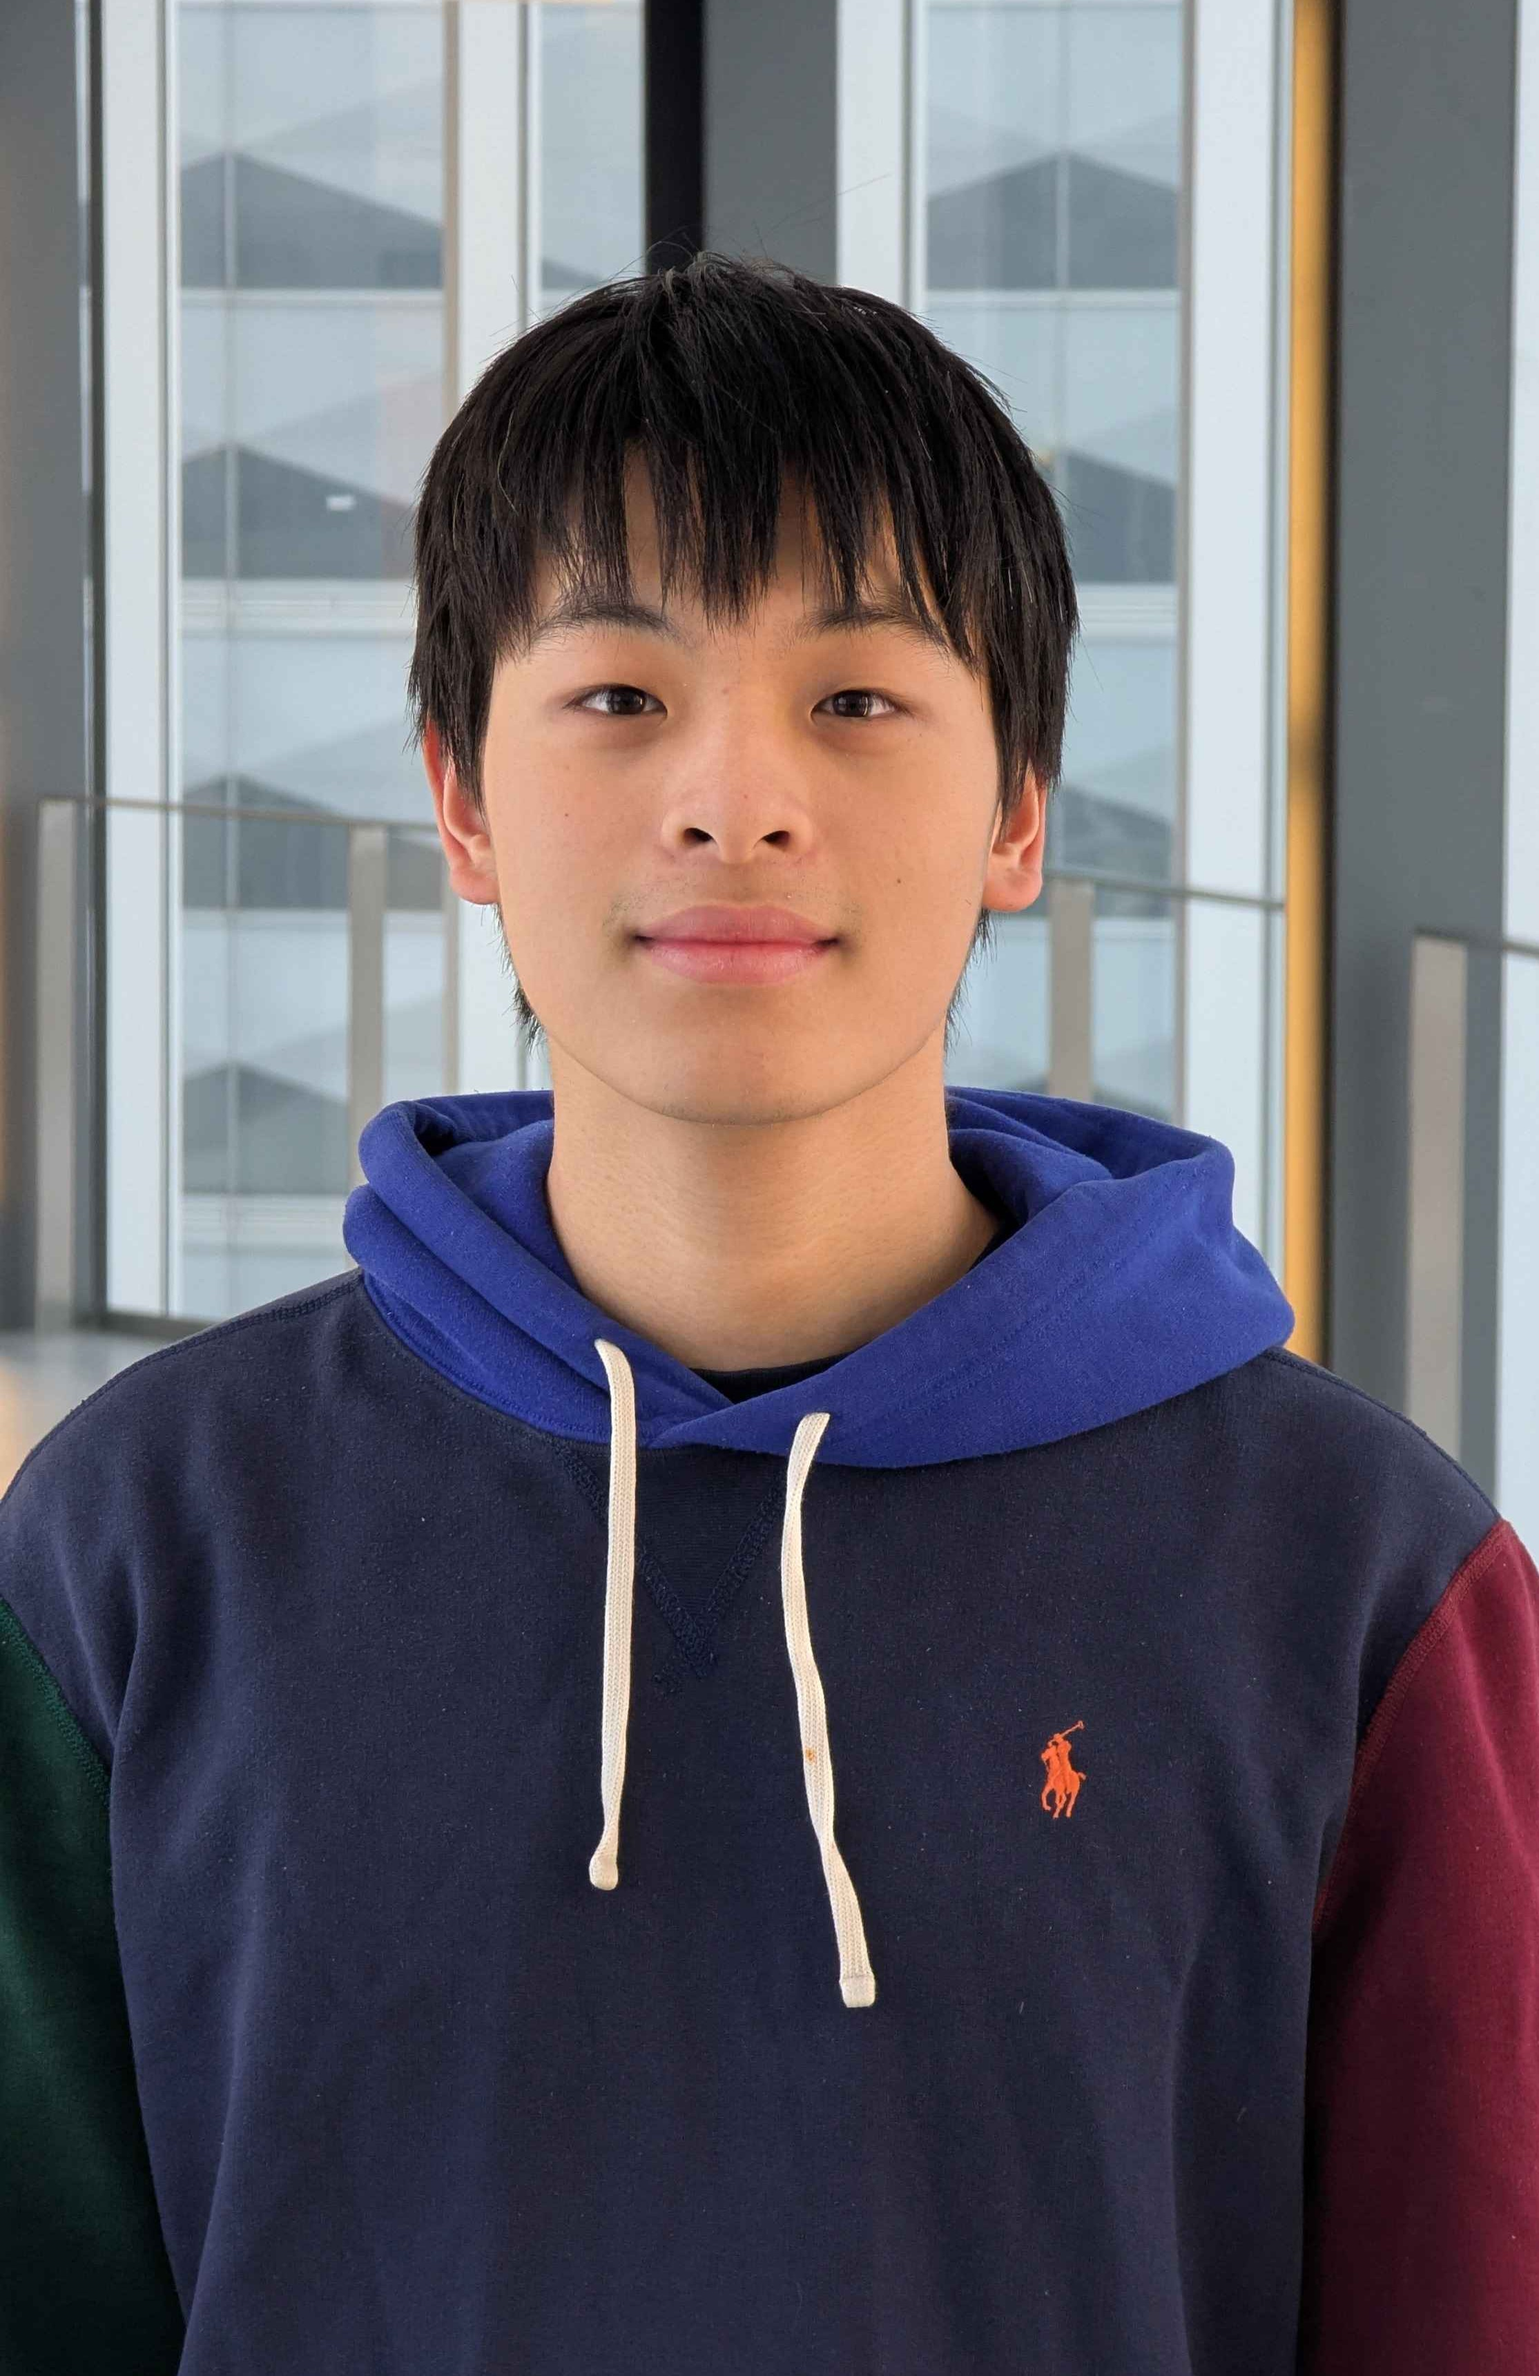
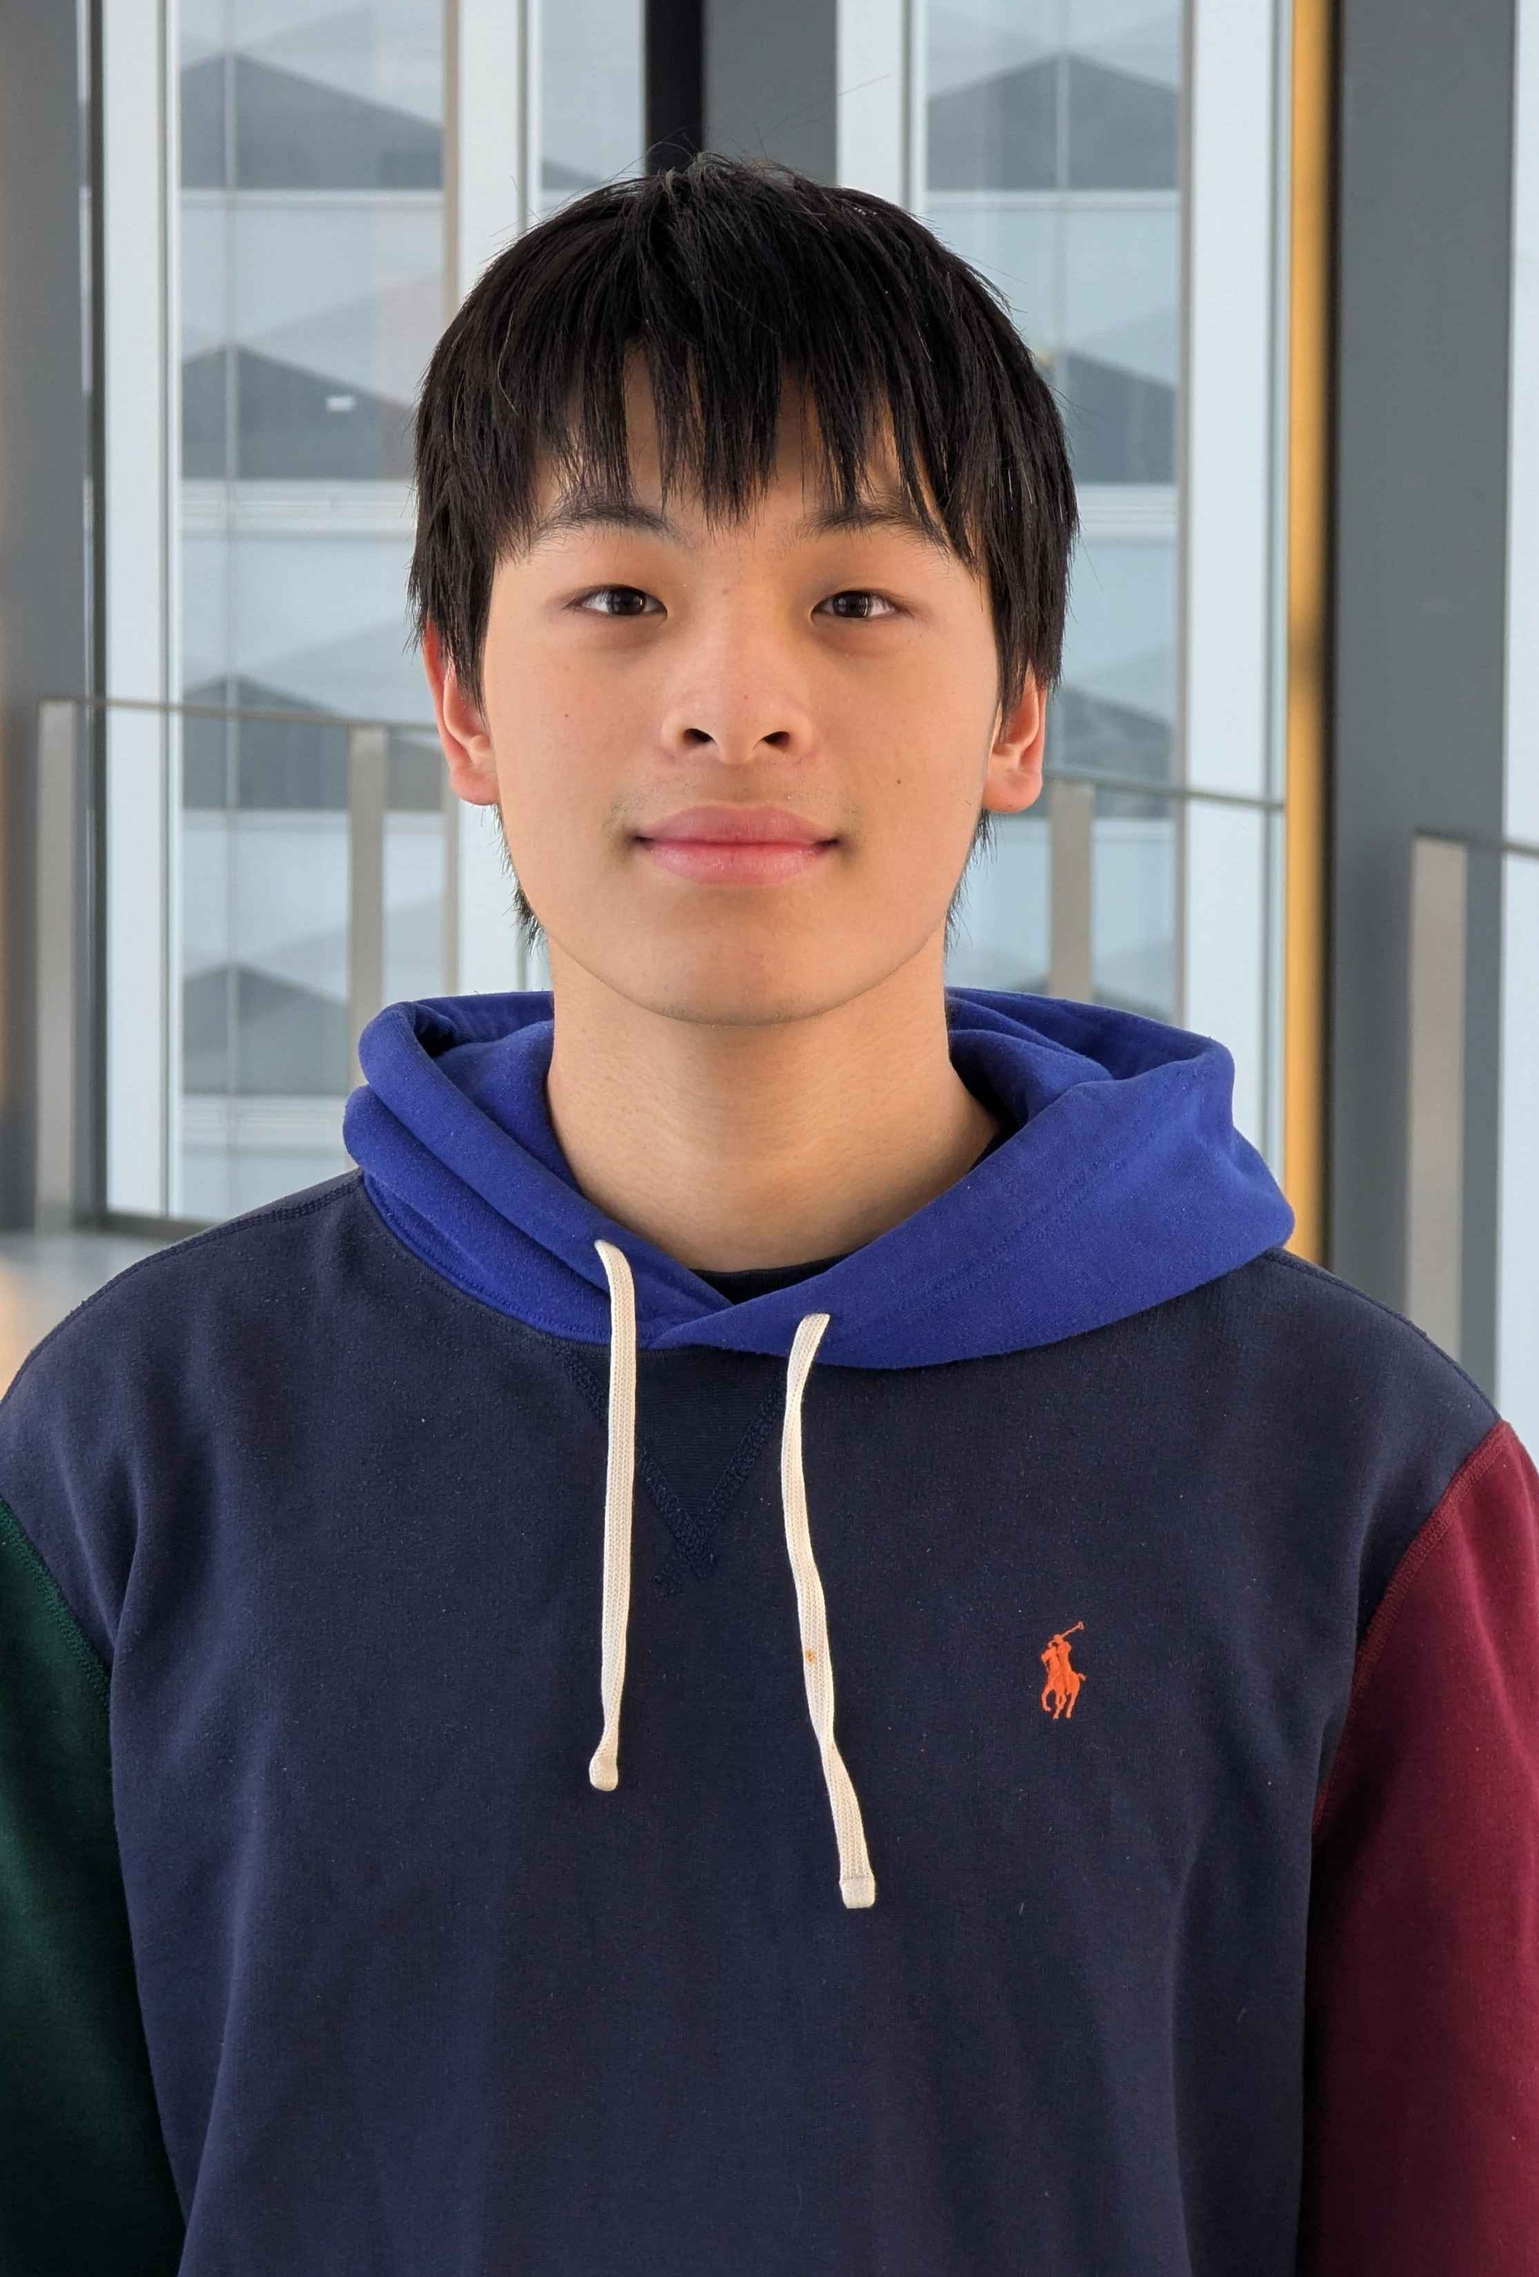
updated greeting

diff --git a/src/components/Greeting.jsx b/src/components/Greeting.jsx
@@ -1,4 +1,4 @@
-import HoverEmoji from "../containers/HoverEmoji.jsx";
+import emoji from "react-easy-emoji";
 import SocialMedia from "./SocialMedia.jsx";
 import Button from "./Button.jsx";
 import AnimatedImage from "../containers/AnimatedImage.jsx";
@@ -7,16 +7,21 @@ export default function Greeting() {
   return (
     <section id="greeting" className="mx-auto max-w-7xl px-16 py-20">
       <div className="grid grid-cols-1 md:grid-cols-2 gap-20 items-center">
-        <div className="space-y-10">
+        <div className="space-y-8">
           <h1 className="text-6xl font-bold tracking-tight text-slate-900">
-            Hi, I’m <span className="text-indigo-600">Ian</span> <HoverEmoji />
+            Hi, I’m
+            <span className="text-indigo-600 font-extrabold"> Ian </span>
+            <span className="inline-block origin-[70%_70%] animate-wave">{emoji("👋")}</span>
           </h1>
+          <h2 className="text-2xl tracking-tight text-slate-900">
+            I build efficient software with a focus on algorithms and performance 🧩
+          </h2>
           <ul className="space-y-4 text-base text-slate-700">
             <li className="flex gap-2 group">
               <span className="text-indigo-600 mr-2 transition-transform duration-300 ease-out group-hover:translate-x-1.5">
                 →
               </span>
-              <span>Studying Computer Engineering @</span>
+              <span>Computer Engineering @</span>
               <a
                 href="https://uwaterloo.ca/"
                 target="_blank"
@@ -54,23 +59,27 @@ export default function Greeting() {
               <span className="text-indigo-600 mr-2 transition-transform duration-300 ease-out group-hover:translate-x-1.5">
                 →
               </span>
-              Performance-focused software engineer with interest in backend systems
+              I like algorithms, systems, and making code run fast!
             </li>
             <li className="flex gap-2 group">
               <span className="text-indigo-600 mr-2 transition-transform duration-300 ease-out group-hover:translate-x-1.5">
                 →
               </span>
-              Enjoy optimizing performance-critical code paths
+              In my free time, I like to solve nonograms, read various books, and work on my puzzle game
             </li>
             <li className="flex gap-2 group">
               <span className="text-indigo-600 mr-2 transition-transform duration-300 ease-out group-hover:translate-x-1.5">
                 →
               </span>
-              Seeking Summer 2026 Software Engineering Internships
+              Seeking Summer 2026 SWE Internships
             </li>
           </ul>
-          <SocialMedia />
-          <Button text="View Resume" href="/resume.pdf" />
+          <div className="flex items-center gap-16">
+            <SocialMedia />
+            <span className="-mt-4">
+              <Button text="View Resume" href="/resume.pdf" />
+            </span>
+          </div>
         </div>
 
         <AnimatedImage />

diff --git a/src/index.css b/src/index.css
@@ -7,4 +7,15 @@
   --font-logo: "Alex Brush", sans-serif;
   --font-header: "Inter", sans-serif;
   --font-text: "Inter", sans-serif;
+  @keyframes wave {
+    0% { transform: rotate(0deg); }
+    10% { transform: rotate(-10deg); }
+    20% { transform: rotate(12deg); }
+    30% { transform: rotate(-10deg); }
+    40% { transform: rotate(9deg); }
+    50% { transform: rotate(0deg); }
+    100% { transform: rotate(0deg); }
+  }
+
+  --animate-wave: wave 1.8s infinite;
 }

diff --git a/src/data/projects.js b/src/data/projects.js
@@ -37,6 +37,6 @@ export const projects = [
       "A roguelike where you navigate semi-random icy caves, uncover abilities in chests, avoid traps, and find the best path down—all while your light fades and time runs out.",
     image: "kindle_thumbnail.png",
     tech: ["Java", "Swing (Java)"],
-    github: "thing",
+    github: "https://github.com/rootrc/Kindle-Game",
   },
 ];

diff --git a/src/containers/AnimatedImage.jsx b/src/containers/AnimatedImage.jsx
@@ -2,7 +2,7 @@ import { motion } from "framer-motion";
 
 export default function AnimatedImage() {
   return (
-    <div className="flex flex-1 justify-center">
+    <div className="flex flex-1 justify-center mt-8">
       <a href="" target="_blank" rel="noopener noreferrer">
         <motion.img
           src="/portrait.jpg"
